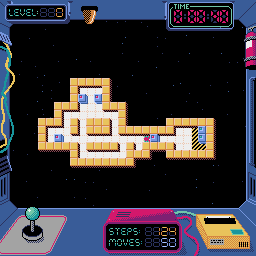
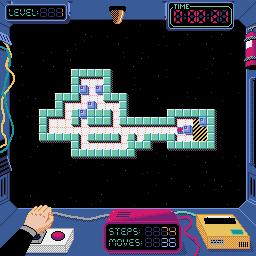
Finalize cockpit view; Add hand controlling joystick

diff --git a/bansoko/game/screens/playfield.py b/bansoko/game/screens/playfield.py
@@ -7,7 +7,7 @@ import pyxel
 from bansoko.game.level import InputAction, Level
 from bansoko.game.profile import LevelScore
 from bansoko.game.screens.screen_factory import ScreenFactory
-from bansoko.graphics import Point
+from bansoko.graphics import Point, Direction
 from bansoko.graphics.animation import AnimationPlayer, Animation
 from bansoko.graphics.sprite import Sprite
 from bansoko.gui.input import VirtualButton
@@ -24,6 +24,9 @@ class CockpitElements:
     rewind_icon: Sprite
     joystick_neutral: Sprite
     joystick_move: Sprite
+    rewind_button: Sprite
+    left_hand: Sprite
+    left_hand_pressing_button: Sprite
 
 
 class PlayfieldScreen(BaseScreenController):
@@ -49,7 +52,10 @@ class PlayfieldScreen(BaseScreenController):
             digits_time=bundle.get_sprite("digits_fat_red"),
             rewind_icon=bundle.get_sprite("rewind_icon"),
             joystick_neutral=bundle.get_sprite("joystick_neutral"),
-            joystick_move=bundle.get_sprite("joystick_move"))
+            joystick_move=bundle.get_sprite("joystick_move"),
+            rewind_button=bundle.get_sprite("rewind_button"),
+            left_hand=bundle.get_sprite("left_hand"),
+            left_hand_pressing_button=bundle.get_sprite("left_hand_pressing_button"))
         self.printing_animation = Animation(bundle.get_sprite("printing_receipt"), 120)
         self.level_completed_player: Optional[AnimationPlayer] = None
         self.how_to_play_shown = not show_how_to_play
@@ -96,14 +102,27 @@ class PlayfieldScreen(BaseScreenController):
     def _draw_dynamic_cockpit(self) -> None:
         if not self.level.last_input_action:
             self.ui_elements.joystick_neutral.draw(Point(18, 209))
+            self.ui_elements.rewind_button.draw(Point(51, 231), frame=0)
+            self.ui_elements.left_hand.draw(Point(-9, 205))
             return
 
         input_action = self.level.last_input_action
         if input_action == InputAction.UNDO:
             self.ui_elements.joystick_neutral.draw(Point(18, 209))
             self.ui_elements.rewind_icon.draw(Point(21, 35))
+            self.ui_elements.rewind_button.draw(Point(51, 231), frame=1)
+            self.ui_elements.left_hand_pressing_button.draw(Point(19, 234))
         elif input_action.is_movement:
             self.ui_elements.joystick_move.draw(Point(18, 209), direction=input_action.direction)
+            if input_action.direction == Direction.LEFT:
+                self.ui_elements.left_hand.draw(Point(-13, 205))
+            elif input_action.direction == Direction.RIGHT:
+                self.ui_elements.left_hand.draw(Point(-5, 205))
+            elif input_action.direction == Direction.UP:
+                self.ui_elements.left_hand.draw(Point(-7, 203))
+            elif input_action.direction == Direction.DOWN:
+                self.ui_elements.left_hand.draw(Point(-11, 208))
+            self.ui_elements.rewind_button.draw(Point(51, 231), frame=0)
 
     def _draw_level_statistics(self) -> None:
         score = self.level.level_score

diff --git a/bansoko/game/screens/level_completed.py b/bansoko/game/screens/level_completed.py
@@ -29,10 +29,10 @@ class LevelCompletedController(MenuController):
         restart_level = TextMenuItem(
             "RESTART LEVEL", lambda: screen_factory.get_playfield_screen(
                 current_level_num, skip_how_to_play=True))
-        go_back = TextMenuItem(
+        main_menu = TextMenuItem(
             "BACK TO MAIN MENU", screen_factory.get_main_menu)
 
-        more_levels_to_play_menu: Tuple[MenuItem, ...] = (next_level, restart_level, go_back)
+        more_levels_to_play_menu: Tuple[MenuItem, ...] = (next_level, restart_level, main_menu)
         last_level_finished_menu: Tuple[MenuItem, ...] = (finish_game, restart_level)
         screen = screen_factory.get_bundle().get_screen("level_completed")
         menu = Menu.with_defaults(

diff --git a/bansoko/game/screens/game_paused.py b/bansoko/game/screens/game_paused.py
@@ -22,7 +22,7 @@ class GamePausedController(MenuController):
         skip_level = TextMenuItem("SKIP LEVEL", lambda: screen_factory.get_playfield_screen(
             screen_factory.get_player_profile().next_level_to_play(level_num)))
         how_to_play = TextMenuItem("HOW TO PLAY", screen_factory.get_how_to_play_screen)
-        main_menu = TextMenuItem("MAIN MENU", screen_factory.get_main_menu)
+        main_menu = TextMenuItem("BACK TO MAIN MENU", screen_factory.get_main_menu)
 
         before_last_level_menu: Tuple[MenuItem, ...] = \
             (resume_game, restart_level, skip_level, how_to_play, main_menu)
